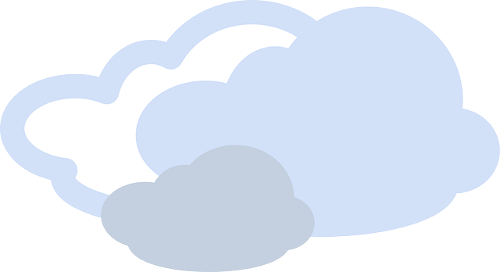
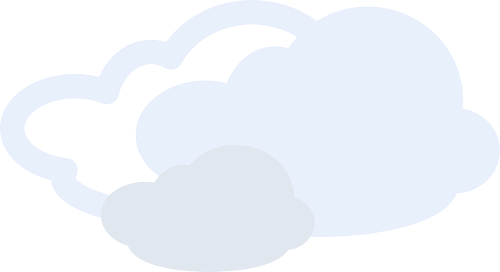
updated position and opacity for clouds on the cemetery playground

Changed region(s): [[0.18, 0.5294, 0.63, 1.0], [0.72, 0.0, 0.75, 0.0294]]

diff --git a/src/objects/Playground/Cemetery.js b/src/objects/Playground/Cemetery.js
@@ -63,7 +63,7 @@ export default class extends AbstractPlayground {
         // add the clouds
         this.clouds = [
             game.add.sprite(200, 200, 'cemetery_clouds'),
-            game.add.sprite(900, 650, 'cemetery_clouds')
+            game.add.sprite(900, 450, 'cemetery_clouds')
         ]
 
         // ... and make them move
